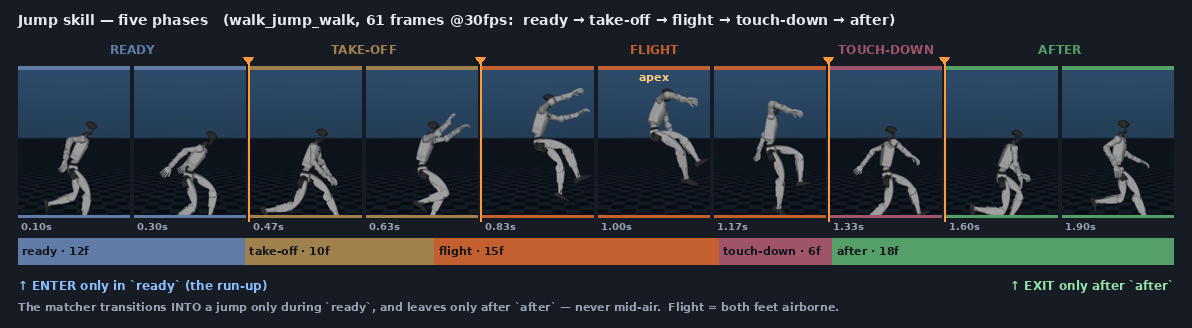
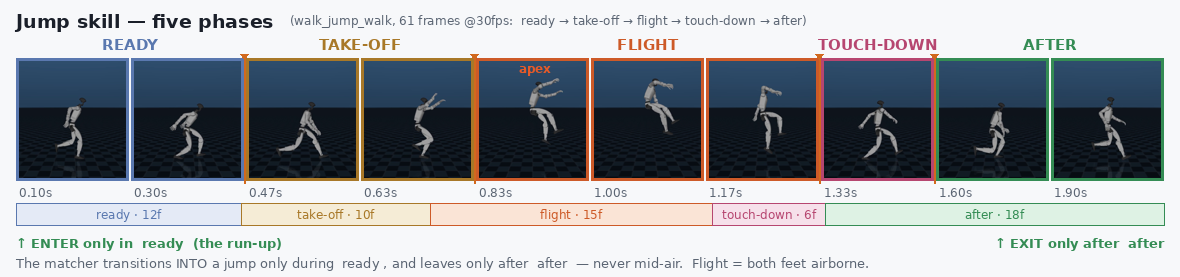
docs: switch website to a light theme
Flip the stylesheet from the dark palette to a light one (light bg/cards,
dark text, adjusted accent/table/code/note colors) and rebuild
jump_phases.png on a matching light panel so the strip doesn't read as a
dark slab. Robot tiles keep their scene background, same as the video cards.

diff --git a/docs/index.html b/docs/index.html
@@ -5,28 +5,28 @@
 <meta name="viewport" content="width=device-width, initial-scale=1">
 <title>GenoView Motion Matching on the Unitree G1</title>
 <style>
-  :root{--bg:#0e1116;--card:#171c24;--fg:#e6e9ee;--mut:#9aa4b2;--acc:#ff9a3c;--blue:#5aa0ff;}
+  :root{--bg:#f7f8fa;--card:#ffffff;--fg:#1a1f29;--mut:#5b6573;--acc:#d2691e;--blue:#1a66cc;--line:#e2e6eb;}
   *{box-sizing:border-box}
   body{margin:0;background:var(--bg);color:var(--fg);font:16px/1.6 -apple-system,Segoe UI,Roboto,Helvetica,Arial,sans-serif}
   header{padding:48px 20px 24px;max-width:1080px;margin:0 auto}
   h1{font-size:30px;margin:0 0 8px}
-  h2{font-size:23px;margin:40px 0 12px;border-bottom:1px solid #2a313c;padding-bottom:6px}
+  h2{font-size:23px;margin:40px 0 12px;border-bottom:1px solid var(--line);padding-bottom:6px}
   h3{font-size:18px;margin:22px 0 8px;color:var(--acc)}
   main{max-width:1080px;margin:0 auto;padding:0 20px 80px}
-  p,li{color:#cdd3db}
+  p,li{color:#2f3744}
   .mut{color:var(--mut)}
   a{color:var(--blue)}
   .grid{display:grid;gap:18px;grid-template-columns:repeat(auto-fit,minmax(300px,1fr))}
-  .card{background:var(--card);border:1px solid #232a34;border-radius:12px;padding:12px}
+  .card{background:var(--card);border:1px solid var(--line);border-radius:12px;padding:12px;box-shadow:0 1px 3px rgba(0,0,0,.05)}
   .card h4{margin:2px 0 8px;font-size:15px}
   video{width:100%;border-radius:8px;background:#000;display:block}
-  .tag{display:inline-block;font-size:12px;padding:2px 8px;border-radius:20px;background:#222a35;color:var(--mut);margin-right:6px}
-  .ok{color:#5ad17a}.bad{color:#ff7a7a}
+  .tag{display:inline-block;font-size:12px;padding:2px 8px;border-radius:20px;background:#eef1f5;color:var(--mut);margin-right:6px}
+  .ok{color:#1a9e54}.bad{color:#d23b3b}
   table{border-collapse:collapse;width:100%;font-size:14px;margin:10px 0}
-  th,td{border:1px solid #2a313c;padding:6px 10px;text-align:left}
-  th{background:#1c232d;color:var(--mut)}
-  code{background:#1c232d;padding:1px 6px;border-radius:5px;font-size:14px}
-  .note{background:#1a212b;border-left:3px solid var(--acc);padding:10px 14px;border-radius:0 8px 8px 0;margin:12px 0}
+  th,td{border:1px solid var(--line);padding:6px 10px;text-align:left}
+  th{background:#eef1f5;color:var(--mut)}
+  code{background:#eef1f5;padding:1px 6px;border-radius:5px;font-size:14px}
+  .note{background:#fdf3e9;border-left:3px solid var(--acc);padding:10px 14px;border-radius:0 8px 8px 0;margin:12px 0}
   .legend{font-size:14px;color:var(--mut)}
 </style>
 </head>